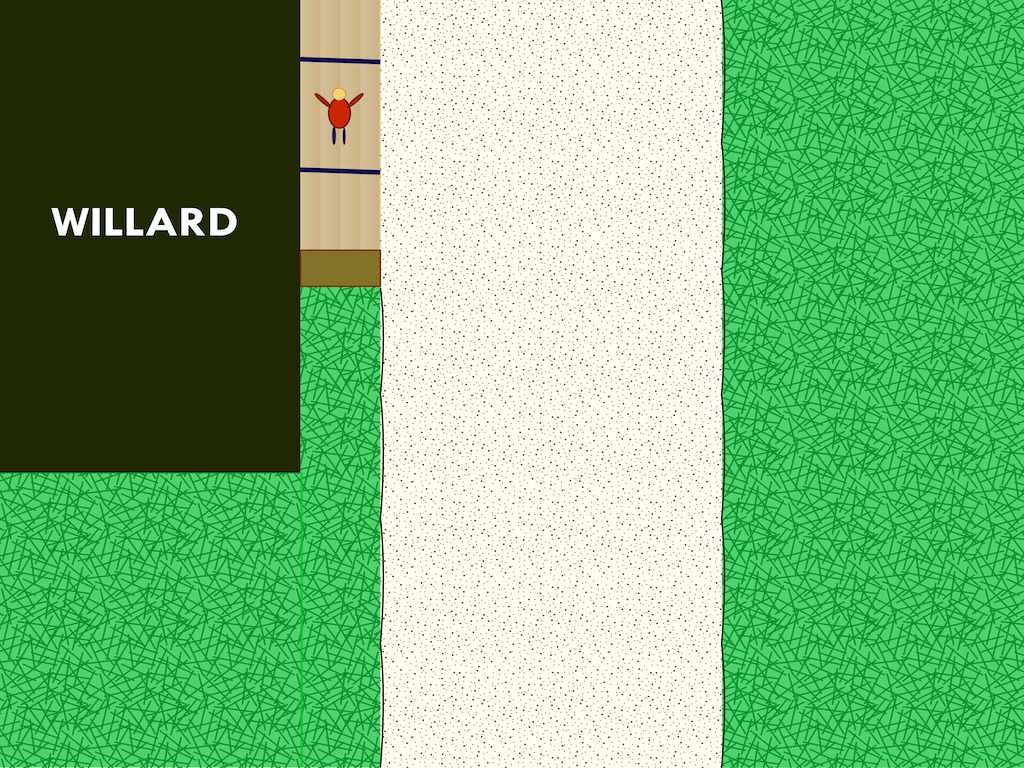
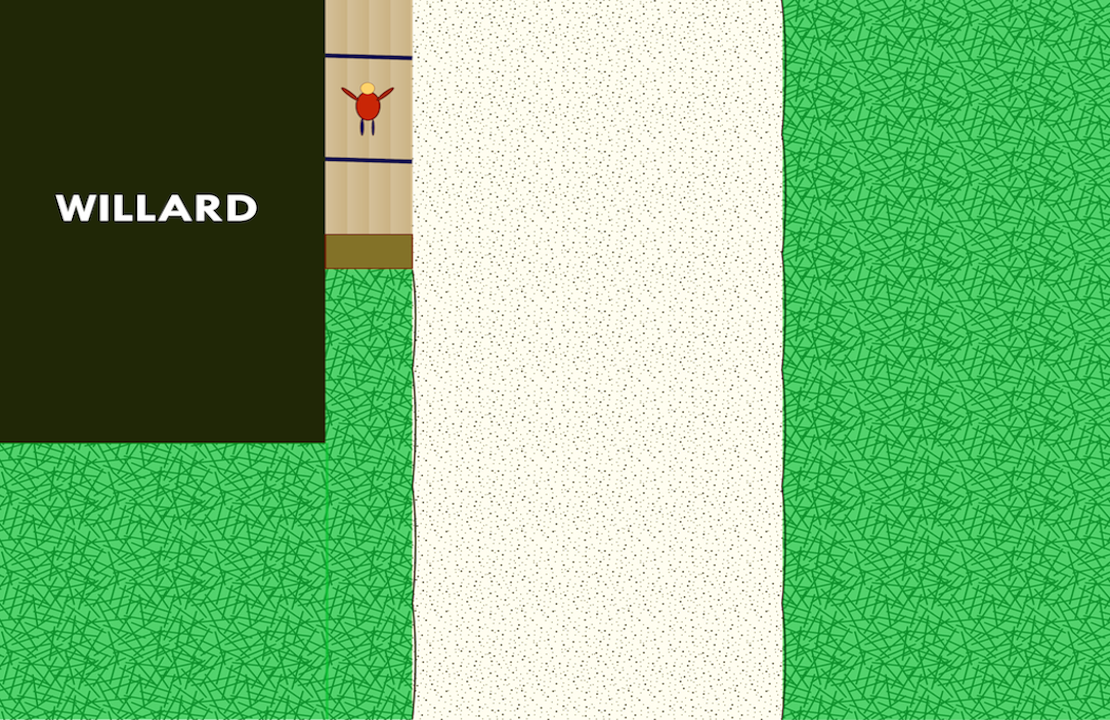
Updated Working Code from Class 10/14
This code works completely for all changes implemented in class as well
as some additions that I have made. Delete your repository along with
all project files from netbeans and your local computer and reclone
this repository. Open the project you just recloned and test for
functionality.

diff --git a/LateToClass/src/latetoclass/GamePanel.java b/LateToClass/src/latetoclass/GamePanel.java
@@ -33,10 +33,10 @@ public class GamePanel extends JPanel implements KeyListener, ActionListener{
     JButton fallButton = new JButton("Fall");
     JButton springButton = new JButton("Spring");
     JButton summerButton = new JButton("Summer");
-    Player texter1 = new Player();
-    Player texter2 = new Player();
-    Player average1 = new Player();
-    Player average2 = new Player();
+    Enemy texter1 = new Enemy();
+    Enemy texter2 = new Enemy();
+    Enemy average1 = new Enemy();
+    Enemy average2 = new Enemy();
     Player gamePiece = new Player();
     
     //Constants
@@ -51,6 +51,7 @@ public class GamePanel extends JPanel implements KeyListener, ActionListener{
         setLayout(null);
         
         sp = new SettingsPanel();
+        gameLoop = new Timer(1000, this);
         
         SUMMER_SEASON = 0;
         SPRING_SEASON = 1;
@@ -69,6 +70,7 @@ public class GamePanel extends JPanel implements KeyListener, ActionListener{
         STARTING_TIME_IN_MILLISECONDS = 0;
         REFRESH_TIME_IN_MILLISECONDS = 0;
         
+        //Default background
         background = new ImageIcon("images/bg_summer.png");
         background1 = background.getImage();
         
@@ -91,6 +93,9 @@ public class GamePanel extends JPanel implements KeyListener, ActionListener{
         springButton.setBounds(0, 320, 100, 50);
         summerButton.setBounds(0, 370, 100, 50);
         
+        //Make the play button invisible until the user picks a player.
+        playGame.setVisible(false);
+        
         playGame.addActionListener(this);
         boyButton.addActionListener(this);
         girlButton.addActionListener(this);
@@ -104,58 +109,73 @@ public class GamePanel extends JPanel implements KeyListener, ActionListener{
     public void paintComponent(Graphics g){
         super.paintComponent(g);
         g.drawImage(background1, 0, 0, this);
-        ImageIcon water = new ImageIcon("images/boy.png");
-        addKeyListener(this);
     }
     
     void startGame(){
         //background = new ImageIcon("images/bg_summer.png");
         //background1 = background.getImage();
+        
+        //Hide the settings buttons
+        playGame.setVisible(false);
+        boyButton.setVisible(false);
+        girlButton.setVisible(false);
+        winterButton.setVisible(false);
+        fallButton.setVisible(false);
+        springButton.setVisible(false);
+        summerButton.setVisible(false);
 
         //starts the gameLoop timer
-        //gameLoop.start();
-        //gameLoop.addActionListener(this);
+        gameLoop.start();
+        gameLoop.addActionListener(this);
         if(currentPlayer == 0){
             gamePiece.image = new ImageIcon("images/boy.png");
             gamePiece.image1 = gamePiece.image.getImage();
             gamePiece.speed = 15;
-            gamePiece.width = 20;
-            gamePiece.height = 15;
+            gamePiece.width = 115;
+            gamePiece.height = 69;
         }else if(currentPlayer == 1){
             gamePiece.image = new ImageIcon("images/girl.png");
             gamePiece.image1 = gamePiece.image.getImage();
             gamePiece.speed = 10;
-            gamePiece.width = 15;
-            gamePiece.height = 10;
+            gamePiece.width = 115;
+            gamePiece.height = 69;
         }
-        gamePiece.player.setBounds(getWidth() / 2, getHeight() - 50, 50, 50);
+        gamePiece.player.setBounds(getWidth() / 2, getHeight() - 50, gamePiece.width, gamePiece.height);
         add(gamePiece.player);
         gamePiece.player.addKeyListener(this);
         gamePiece.player.setFocusable(true);
         
         //adds the first texter obstacle
         texter1.image = new ImageIcon("images/texter.png");
+        texter1.player = new JButton(texter1.image);
         texter1.speed = 15;
-        texter1.width = 20;
-        texter1.height = 15;
+        texter1.width = 117;
+        texter1.height = 70;
+        texter1.player.setBounds(getWidth() - 450, 0, texter1.width, texter1.height);
         add(texter1.player);
         //adds the second texter obstacle
         texter2.image = new ImageIcon("images/texter.png");
+        texter2.player = new JButton(texter2.image);
         texter2.speed = 15;
-        texter2.width = 20;
-        texter2.height = 15;
+        texter2.width = 117;
+        texter2.height = 70;
+        texter2.player.setBounds(getWidth() - texter2.width, getHeight() - 200, texter2.width, texter2.height);
         add(texter2.player);
         //adds the first average obstacle
-        average1.image = new ImageIcon("images/texter.png");
+        average1.image = new ImageIcon("images/average.png");
+        average1.player = new JButton(average1.image);
         average1.speed = 15;
-        average1.width = 20;
-        average1.height = 15;
+        average1.width = 117;
+        average1.height = 71;
+        average1.player.setBounds(getWidth() - average1.width, getHeight() / 3, average1.width, average1.height);
         add(average1.player);
         //adds the second average obstacle
-        average2.image = new ImageIcon("images/texter.png");
+        average2.image = new ImageIcon("images/average.png");
+        average2.player = new JButton(average2.image);
         average2.speed = 15;
-        average2.width = 20;
-        average2.height = 15;
+        average2.width = 117;
+        average2.height = 71;
+        average2.player.setBounds(getWidth() - 700, 0, average2.width, average2.height);
         add(average2.player);
         
         revalidate();
@@ -173,22 +193,22 @@ public class GamePanel extends JPanel implements KeyListener, ActionListener{
         int newX = 0;
         
         if(e.getKeyCode() == KeyEvent.VK_UP) {
-            newY = currentY - 10;
+            newY = currentY - gamePiece.speed;
             System.out.println("up");
             gamePiece.player.setLocation(currentX, newY);
         }
         if(e.getKeyCode() == KeyEvent.VK_DOWN) {
-            newY = currentY + 10;
+            newY = currentY + gamePiece.speed;
             System.out.println("down");
             gamePiece.player.setLocation(currentX, newY);
         }
         if(e.getKeyCode() == KeyEvent.VK_LEFT){
-            newX = currentX - 10;
+            newX = currentX - gamePiece.speed;
             System.out.println("left");
             gamePiece.player.setLocation(newX, currentY);
         }
         if(e.getKeyCode() == KeyEvent.VK_RIGHT){
-            newX = currentX + 10;
+            newX = currentX + gamePiece.speed;
             System.out.println("right");
             gamePiece.player.setLocation(newX, currentY);
         }
@@ -206,15 +226,15 @@ public class GamePanel extends JPanel implements KeyListener, ActionListener{
             startGame();
         }
         if(obj == boyButton){
-            gamePiece = new Player();
+            playGame.setVisible(true);
             gamePiece.image = new ImageIcon("images/boy.png");
-            gamePiece.image1 = gamePiece.image.getImage();
+            gamePiece.player = new JButton(gamePiece.image);
             currentPlayer = 0;
         }
         if(obj == girlButton){
-            gamePiece = new Player();
+            playGame.setVisible(true);
             gamePiece.image = new ImageIcon("images/girl.png");
-            gamePiece.image1 = gamePiece.image.getImage();
+            gamePiece.player = new JButton(gamePiece.image);
             currentPlayer = 1;
         }
         if(obj == winterButton){

diff --git a/LateToClass/src/latetoclass/SettingsPanel.java b/LateToClass/src/latetoclass/SettingsPanel.java
@@ -11,6 +11,7 @@ public class SettingsPanel extends JPanel{
             easyDifficultyButton, mediumDifficultyButton, hardDifficultyButton, 
             boyButton, girlButton;
     JLabel instructionsText;
+    int timerCounter;
     
     public SettingsPanel(){        
         playGame = new JButton("Play");
@@ -20,11 +21,12 @@ public class SettingsPanel extends JPanel{
         fallButton = new JButton("Fall");
         springButton = new JButton("Spring");
         summerButton = new JButton("Summer");
+        timerCounter = 0;
         
-        instructionsText = new JLabel("Select your player and difficulty. "
+        instructionsText = new JLabel("Select player, difficulty, and background. "
                 + "Use the arrow keys to move your character. Avoid other people "
                 + "and texters. Make it to Willard building without embarassing yourself.");
 
-        instructionsText.setBounds(0,750,1024,50);
+        instructionsText.setBounds(0,700,1200,50);
     }
 }

diff --git a/LateToClass/src/latetoclass/Game.java b/LateToClass/src/latetoclass/Game.java
@@ -23,7 +23,7 @@ public class Game extends JFrame{
 	getContentPane().add(gp, "Center");
         getContentPane().add(sp, "South");
 	setDefaultCloseOperation(EXIT_ON_CLOSE);
-	setSize (1024, 860);
+	setSize (1110, 768);
         setVisible(true);
         gp.setFocusable(true);
         

diff --git a/LateToClass/src/latetoclass/Character.java b/LateToClass/src/latetoclass/Character.java
@@ -13,7 +13,7 @@ public class Character {
     int speed, x, y, width, height;
     
     public Character(){
-        player = new JButton("Player 1");
+        player = new JButton("Player");
     }
     
     void setImagePath(String path){

diff --git a/LateToClass/src/latetoclass/Enemy.java b/LateToClass/src/latetoclass/Enemy.java
@@ -7,7 +7,7 @@ public class Enemy extends Character{
     
     public Enemy(){
         image = new ImageIcon();
-        player = new JButton();
+        player = new JButton("Enemy");
         speed = 0;
         x = 0;
         y = 0;
